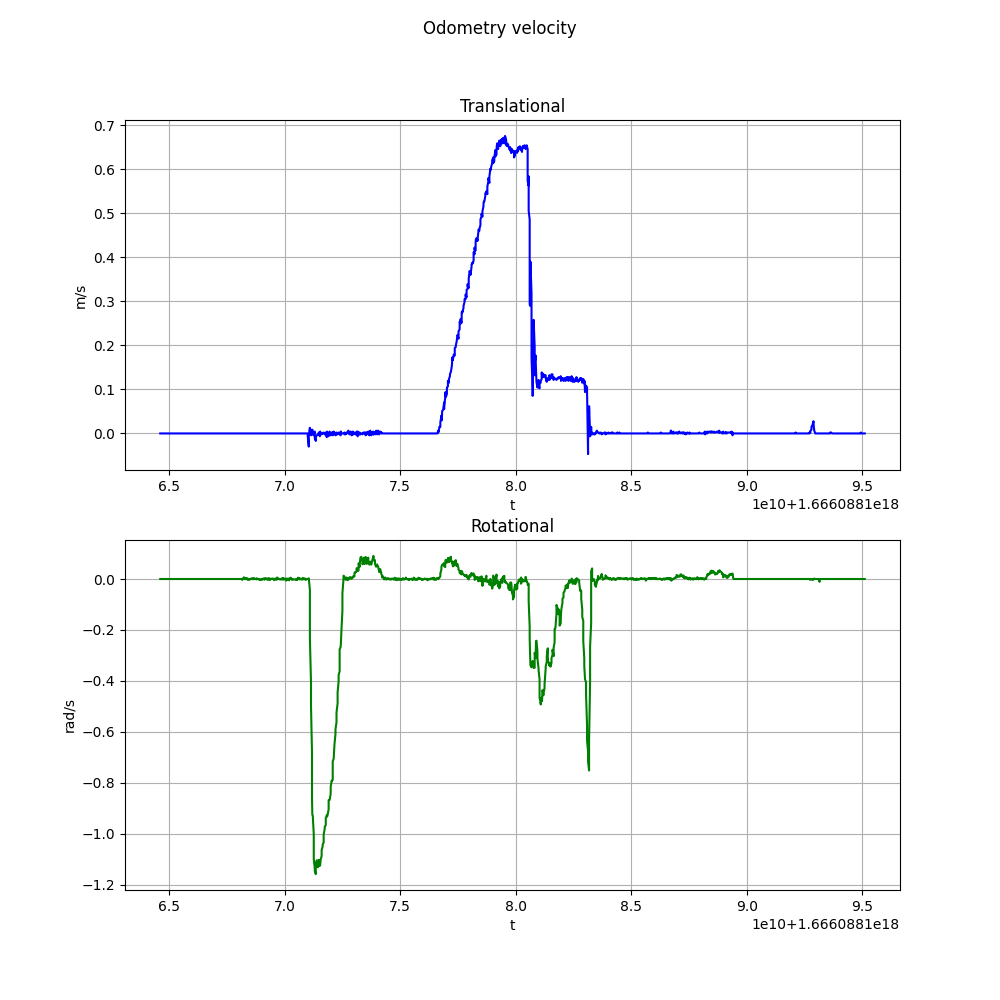
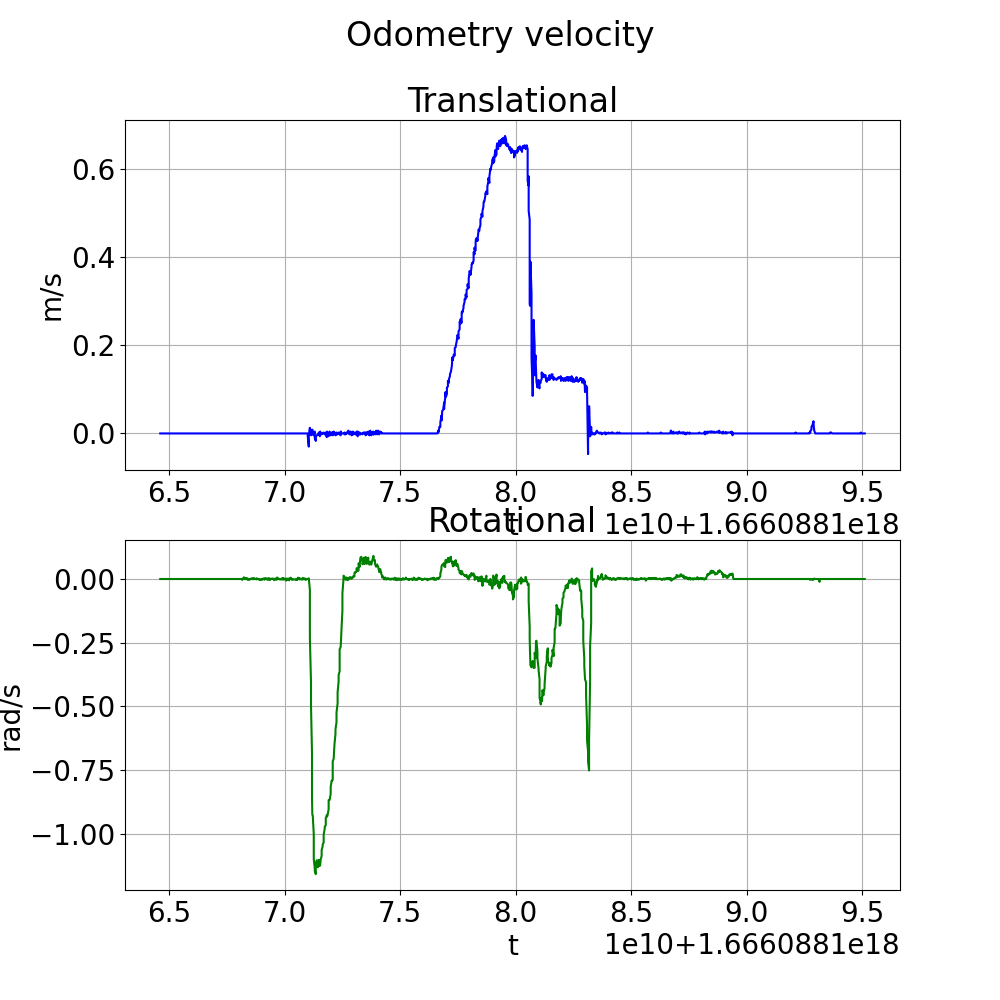
add : image

diff --git a/sobit_follower/scripts/plot.py b/sobit_follower/scripts/plot.py
@@ -15,188 +15,208 @@ parser.add_argument("--save_plot_path", default='', help="File path of Plot imag
 
 options = parser.parse_args()
 
-# # Distance between robot and person
-# print("\tDistance between robot and person")
-# usecols = [ '%time', 'field.x', 'field.y']
-# target_from_robot_base = pd.read_csv( options.following_position_csv_path, encoding='shift-jis', usecols=usecols, dtype={ '%time': float, 'field.x': float, 'field.y': float } )
-# time = target_from_robot_base['%time'].values
-# target_x = target_from_robot_base['field.x'].values
-# target_y = target_from_robot_base['field.y'].values
-# distance = np.sqrt((target_x) ** 2 + (target_y) ** 2)
-# idx = distance.size - int(distance.size * 0.03)
-# distance = distance[:idx]
-# time = time[:idx]
+# Distance between robot and person
+print("\tDistance between robot and person")
+usecols = [ '%time', 'field.x', 'field.y']
+target_from_robot_base = pd.read_csv( options.following_position_csv_path, encoding='shift-jis', usecols=usecols, dtype={ '%time': float, 'field.x': float, 'field.y': float } )
+time = target_from_robot_base['%time'].values
+target_x = target_from_robot_base['field.x'].values
+target_y = target_from_robot_base['field.y'].values
+distance = np.sqrt((target_x) ** 2 + (target_y) ** 2)
+idx = distance.size - int(distance.size * 0.03)
+distance = distance[:idx]
+time = time[:idx]
+time_d = time
 
-# print(f"\t\tDistance average = {np.mean(distance[ distance > 0.0 ])}")
-# print(f"\t\tDistance max     = {np.max(distance[ distance > 0.0 ])}")
-# print(f"\t\tDistance min     = {np.min(distance[ distance > 0.0 ])}")
+print(f"\t\tDistance average = {np.mean(distance[ distance > 0.0 ])}")
+print(f"\t\tDistance max     = {np.max(distance[ distance > 0.0 ])}")
+print(f"\t\tDistance min     = {np.min(distance[ distance > 0.0 ])}")
 
-# fig, ax = plt.subplots()
-# ax.set_xlabel('t')  # x軸ラベル
-# ax.set_ylabel('Distance[m]')  # y軸ラベル
-# ax.set_title('Distance between robot and person') # グラフタイトル
-# # ax.set_aspect('equal', adjustable='box') # スケールを揃える
-# ax.grid()            # 罫線
-# #ax.set_xlim([-10, 10]) # x方向の描画範囲を指定
-# #ax.set_ylim([0, 1])    # y方向の描画範囲を指定
-# ax.plot(time, distance, color="blue", label="Distance")
+fig, ax = plt.subplots()
+ax.set_xlabel('t')  # x軸ラベル
+ax.set_ylabel('Distance[m]')  # y軸ラベル
+ax.set_title('Distance between robot and person') # グラフタイトル
+# ax.set_aspect('equal', adjustable='box') # スケールを揃える
+ax.grid()            # 罫線
+#ax.set_xlim([-10, 10]) # x方向の描画範囲を指定
+#ax.set_ylim([0, 1])    # y方向の描画範囲を指定
+ax.plot(time, distance, color="blue", label="Distance")
 
-# ax.legend(loc=0)    # 凡例
-# fig.tight_layout()  # レイアウトの設定
-# plt.savefig( options.save_plot_path + "_distance.png" ) # 画像の保存
-# # plt.show()
-# plt.clf()
+ax.legend(loc=0)    # 凡例
+fig.tight_layout()  # レイアウトの設定
+plt.savefig( options.save_plot_path + "_distance.png" ) # 画像の保存
+# plt.show()
+plt.clf()
 
 # Tracking and Robot Trajectory
-# print("\tTracking and Robot Trajectory")
-# usecols = ['field.x', 'field.y']
-# target = pd.read_csv( options.target_postion_odom_csv_path, encoding='shift-jis', usecols=usecols, dtype={ 'field.x': float, 'field.y': float } )
-# robot = pd.read_csv( options.odom_csv_path, encoding='shift-jis', usecols=usecols, dtype={ 'field.x': float, 'field.y': float } )
-# target_x = target['field.x'].values
-# target_x = target_x+0.25
-# target_y = target['field.y'].values
-# target_y = -target_y
-# robot_x = robot['field.x'].values
-# robot_x = robot_x+0.25
-# robot_y = robot['field.y'].values
-# robot_y = -robot_y
+print("\tTracking and Robot Trajectory")
+usecols = ['field.x', 'field.y']
+target = pd.read_csv( options.target_postion_odom_csv_path, encoding='shift-jis', usecols=usecols, dtype={ 'field.x': float, 'field.y': float } )
+robot = pd.read_csv( options.odom_csv_path, encoding='shift-jis', usecols=usecols, dtype={ 'field.x': float, 'field.y': float } )
+target_x = target['field.x'].values
+target_x = target_x+0.25
+target_y = target['field.y'].values
+target_y = -target_y
+robot_x = robot['field.x'].values
+robot_x = robot_x+0.25
+robot_y = robot['field.y'].values
+robot_y = -robot_y
 
 
-# fig, ax = plt.subplots()
-# ax.set_xlabel("x[m]", size = 20)
-# ax.set_ylabel("y[m]", size = 20)
-# # ax.set_title('Tracking and Robot Trajectory') # グラフタイトル
-# ax.set_aspect('equal', adjustable='box') # スケールを揃える
-# ax.grid()            # 罫線
-# ax.plot(target_y, target_x, color="deepskyblue", linestyle='-', linewidth=5, label="Person")
-# ax.plot(robot_y, robot_x, color="coral", linestyle='--', linewidth=5, label="Robot")
-# # obstacle
-# r = patches.Rectangle( (2.1,1.4) , 1.2, 0.9, fill=True, fc="Black", linewidth=0)
-# ax.add_patch(r)
-# r = patches.Rectangle( (4.2,0.0) , 1.2, 0.9, fill=True, fc="Black", linewidth=0)
-# ax.add_patch(r)
-# c = patches.Circle( xy=(7.05,1.85), radius=0.05,fill=True, fc="Black")
-# ax.add_patch(c)
-# ax.set_xlim([-1.0, 9.0]) # x方向の描画範囲を指定
-# ax.set_ylim([0, 2.3])    # y方向の描画範囲を指定
+fig, ax = plt.subplots()
+ax.set_xlabel("x[m]", size = 20)
+ax.set_ylabel("y[m]", size = 20)
+# ax.set_title('Tracking and Robot Trajectory') # グラフタイトル
+ax.set_aspect('equal', adjustable='box') # スケールを揃える
+ax.grid()            # 罫線
+ax.plot(target_y, target_x, color="deepskyblue", linestyle='-', linewidth=5, label="Person")
+ax.plot(robot_y, robot_x, color="coral", linestyle='--', linewidth=5, label="Robot")
+# obstacle
+r = patches.Rectangle( (2.1,1.4) , 1.2, 0.9, fill=True, fc="Black", linewidth=0)
+ax.add_patch(r)
+r = patches.Rectangle( (4.2,0.0) , 1.2, 0.9, fill=True, fc="Black", linewidth=0)
+ax.add_patch(r)
+c = patches.Circle( xy=(7.05,1.85), radius=0.05,fill=True, fc="Black")
+ax.add_patch(c)
+ax.set_xlim([-1.0, 9.0]) # x方向の描画範囲を指定
+ax.set_ylim([0, 2.3])    # y方向の描画範囲を指定
 
-# ax.legend(loc=0)    # 凡例
-# # fig.tight_layout()  # レイアウトの設定
-# # 軸目盛の設定と目盛り線の表示
-# plt.rcParams['font.size'] = 20
-# ax.set_xticks([0.0, 0.9, 2.1, 3.3, 4.2, 5.4, 7.05, 8.4, -1.0, 9.0])
-# ax.set_yticks([0.0, 0.9, 1.85, 1.15, 1.4, 0.0, 2.3])
-# xticklabels = ax.get_xticklabels()
-# yticklabels = ax.get_yticklabels()
-# # 各要素の設定をおこなうsetコマンド
-# ax.set_xticklabels([0.0, 0.9, 2.1, 3.3, 4.2, 5.4, 7.05, 8.4, -1.0, 9.0],fontsize=20)
-# ax.set_yticklabels([0.0, 0.9, 1.85, 1.15, 1.4, 0.0, 2.3],fontsize=20)
-# # plt.savefig( options.save_plot_path + "_tracking_and_robot.png" ) # 画像の保存
+ax.legend(loc=0)    # 凡例
+# fig.tight_layout()  # レイアウトの設定
+# 軸目盛の設定と目盛り線の表示
+plt.rcParams['font.size'] = 20
+ax.set_xticks([0.0, 0.9, 2.1, 3.3, 4.2, 5.4, 7.05, 8.4, -1.0, 9.0])
+ax.set_yticks([0.0, 0.9, 1.85, 1.15, 1.4, 0.0, 2.3])
+xticklabels = ax.get_xticklabels()
+yticklabels = ax.get_yticklabels()
+# 各要素の設定をおこなうsetコマンド
+ax.set_xticklabels([0.0, 0.9, 2.1, 3.3, 4.2, 5.4, 7.05, 8.4, -1.0, 9.0],fontsize=20)
+ax.set_yticklabels([0.0, 0.9, 1.85, 1.15, 1.4, 0.0, 2.3],fontsize=20)
+# plt.savefig( options.save_plot_path + "_tracking_and_robot.png" ) # 画像の保存
 # plt.show()
-# plt.clf()
+plt.clf()
 
-# # smooth velocity
-# print("\tSmooth velocity")
-# usecols = [ '%time', 'field.linear.x', 'field.angular.z']
-# smooth_velocity = pd.read_csv( options.smooth_cmd_vel_csv_path, encoding='shift-jis', usecols=usecols, dtype={ '%time':float, 'field.linear.x':float, 'field.angular.z':float } )
-# time = smooth_velocity['%time'].values.tolist()
-# linear = smooth_velocity['field.linear.x'].values
-# angular = smooth_velocity['field.angular.z'].values
-# print(f"\t\tTranslational average = {np.mean(linear[linear > 0.0])}")
-# print(f"\t\tTranslational max     = {np.max(linear[linear > 0.0])}")
-# print(f"\t\tTranslational min     = {np.min(linear[linear > 0.0])}")
-# print(f"\t\tRotational average    = {np.mean(angular)}")
-# print(f"\t\tRotational max        = {np.max(angular)}")
-# print(f"\t\tRotational min        = {np.min(angular)}")
+# smooth velocity
+print("\tSmooth velocity")
+usecols = [ '%time', 'field.linear.x', 'field.angular.z']
+smooth_velocity = pd.read_csv( options.smooth_cmd_vel_csv_path, encoding='shift-jis', usecols=usecols, dtype={ '%time':float, 'field.linear.x':float, 'field.angular.z':float } )
+time = smooth_velocity['%time'].values.tolist()
+linear = smooth_velocity['field.linear.x'].values
+angular = smooth_velocity['field.angular.z'].values
+print(f"\t\tTranslational average = {np.mean(linear[linear > 0.0])}")
+print(f"\t\tTranslational max     = {np.max(linear[linear > 0.0])}")
+print(f"\t\tTranslational min     = {np.min(linear[linear > 0.0])}")
+print(f"\t\tRotational average    = {np.mean(angular)}")
+print(f"\t\tRotational max        = {np.max(angular)}")
+print(f"\t\tRotational min        = {np.min(angular)}")
 
-# fig = plt.figure(figsize = (10, 10))
-# fig.suptitle('Smooth velocity')
-# ax1 = fig.add_subplot(2, 1, 1)
-# ax1.set_title("Translational")
-# ax1.set_xlabel('t')
-# ax1.set_ylabel('m/s')
-# ax1.plot(time, linear, color="blue", label="Translational")
+fig = plt.figure(figsize = (10, 10))
+fig.suptitle('Smooth velocity')
+ax1 = fig.add_subplot(2, 1, 1)
+ax1.set_title("Translational")
+ax1.set_xlabel('t')
+ax1.set_ylabel('m/s')
+ax1.plot(time, linear, color="blue", label="Translational")
 
-# # ax1.set_aspect('equal', adjustable='box')
-# ax1.grid()
-# ax2 = fig.add_subplot(2, 1, 2)
-# ax2.set_title("Rotational")
-# ax2.set_xlabel('t')
-# ax2.set_ylabel('rad/s')
-# ax2.plot(time, angular, color="green", label='Rotational')
-# # ax2.set_aspect('equal', adjustable='box')
-# ax2.grid()
-# plt.savefig( options.save_plot_path + "_smooth_velocity.png" ) # 画像の保存
-# # plt.show()
-# plt.clf()
+# ax1.set_aspect('equal', adjustable='box')
+ax1.grid()
+ax2 = fig.add_subplot(2, 1, 2)
+ax2.set_title("Rotational")
+ax2.set_xlabel('t')
+ax2.set_ylabel('rad/s')
+ax2.plot(time, angular, color="green", label='Rotational')
+# ax2.set_aspect('equal', adjustable='box')
+ax2.grid()
+plt.savefig( options.save_plot_path + "_smooth_velocity.png" ) # 画像の保存
+# plt.show()
+plt.clf()
 
-# # velocity
-# print("\tVelocity")
-# velocity = pd.read_csv( options.raw_cmd_vel_csv_path, encoding='shift-jis', usecols=usecols, dtype={ '%time':float, 'field.linear.x':float, 'field.angular.z':float } )
-# time = velocity['%time'].values.tolist()
-# linear = velocity['field.linear.x'].values
-# angular = velocity['field.angular.z'].values
-# print(f"\t\tTranslational average = {np.mean(linear[linear > 0.0])}")
-# print(f"\t\tTranslational max     = {np.max(linear[linear > 0.0])}")
-# print(f"\t\tTranslational min     = {np.min(linear[linear > 0.0])}")
-# print(f"\t\tRotational average    = {np.mean(angular)}")
-# print(f"\t\tRotational max        = {np.max(angular)}")
-# print(f"\t\tRotational min        = {np.min(angular)}")
+# velocity
+print("\tVelocity")
+velocity = pd.read_csv( options.raw_cmd_vel_csv_path, encoding='shift-jis', usecols=usecols, dtype={ '%time':float, 'field.linear.x':float, 'field.angular.z':float } )
+time = velocity['%time'].values.tolist()
+linear = velocity['field.linear.x'].values
+angular = velocity['field.angular.z'].values
+print(f"\t\tTranslational average = {np.mean(linear[linear > 0.0])}")
+print(f"\t\tTranslational max     = {np.max(linear[linear > 0.0])}")
+print(f"\t\tTranslational min     = {np.min(linear[linear > 0.0])}")
+print(f"\t\tRotational average    = {np.mean(angular)}")
+print(f"\t\tRotational max        = {np.max(angular)}")
+print(f"\t\tRotational min        = {np.min(angular)}")
 
-# fig = plt.figure(figsize = (10, 10))
-# fig.suptitle('Velocity')
-# ax1 = fig.add_subplot(2, 1, 1)
-# ax1.set_title("Translational")
-# ax1.set_xlabel('t')
-# ax1.set_ylabel('m/s')
-# ax1.plot(time, linear, color="blue", label="Translational")
+fig = plt.figure(figsize = (10, 10))
+fig.suptitle('Velocity')
+ax1 = fig.add_subplot(2, 1, 1)
+ax1.set_title("Translational")
+ax1.set_xlabel('t')
+ax1.set_ylabel('m/s')
+ax1.plot(time, linear, color="blue", label="Translational")
 
-# # ax1.set_aspect('equal', adjustable='box')
-# ax1.grid()
-# ax2 = fig.add_subplot(2, 1, 2)
-# ax2.set_title("Rotational")
-# ax2.set_xlabel('t')
-# ax2.set_ylabel('rad/s')
-# ax2.plot(time, angular, color="green", label='Rotational')
-# # ax2.set_aspect('equal', adjustable='box')
-# ax2.grid()
-# plt.savefig( options.save_plot_path + "_velocity.png" ) # 画像の保存
-# # plt.show()
-# plt.clf()
+# ax1.set_aspect('equal', adjustable='box')
+ax1.grid()
+ax2 = fig.add_subplot(2, 1, 2)
+ax2.set_title("Rotational")
+ax2.set_xlabel('t')
+ax2.set_ylabel('rad/s')
+ax2.plot(time, angular, color="green", label='Rotational')
+# ax2.set_aspect('equal', adjustable='box')
+ax2.grid()
+plt.savefig( options.save_plot_path + "_velocity.png" ) # 画像の保存
+# plt.show()
+plt.clf()
 
-# # odom velocity
-# print("\tOdometry Velocity")
-# odom_velocity = pd.read_csv( options.odom_velocity_csv_path, encoding='shift-jis', usecols=usecols, dtype={ '%time':float, 'field.linear.x':float, 'field.angular.z':float } )
-# time = odom_velocity['%time'].values.tolist()
-# linear = odom_velocity['field.linear.x'].values
-# angular = odom_velocity['field.angular.z'].values
-# print(f"\t\tTranslational average = {np.mean(linear[linear > 0.0])}")
-# print(f"\t\tTranslational max     = {np.max(linear[linear > 0.0])}")
-# print(f"\t\tTranslational min     = {np.min(linear[linear > 0.0])}")
-# print(f"\t\tRotational average    = {np.mean(angular)}")
-# print(f"\t\tRotational max        = {np.max(angular)}")
-# print(f"\t\tRotational min        = {np.min(angular)}")
+# odom velocity
+print("\tOdometry Velocity")
+odom_velocity = pd.read_csv( options.odom_velocity_csv_path, encoding='shift-jis', usecols=usecols, dtype={ '%time':float, 'field.linear.x':float, 'field.angular.z':float } )
+time = odom_velocity['%time'].values.tolist()
+linear = odom_velocity['field.linear.x'].values
+angular = odom_velocity['field.angular.z'].values
+time_v = time
+print(f"\t\tTranslational average = {np.mean(linear[linear > 0.0])}")
+print(f"\t\tTranslational max     = {np.max(linear[linear > 0.0])}")
+print(f"\t\tTranslational min     = {np.min(linear[linear > 0.0])}")
+print(f"\t\tRotational average    = {np.mean(angular)}")
+print(f"\t\tRotational max        = {np.max(angular)}")
+print(f"\t\tRotational min        = {np.min(angular)}")
 
-# fig = plt.figure(figsize = (10, 10))
-# fig.suptitle('Odometry velocity')
-# ax1 = fig.add_subplot(2, 1, 1)
-# ax1.set_title("Translational")
-# ax1.set_xlabel('t')
-# ax1.set_ylabel('m/s')
-# ax1.plot(time, linear, color="blue", label="Translational")
+fig = plt.figure(figsize = (10, 10))
+fig.suptitle('Odometry velocity')
+ax1 = fig.add_subplot(2, 1, 1)
+ax1.set_title("Translational")
+ax1.set_xlabel('t')
+ax1.set_ylabel('m/s')
+ax1.plot(time, linear, color="blue", label="Translational")
 
-# # ax1.set_aspect('equal', adjustable='box')
-# ax1.grid()
-# ax2 = fig.add_subplot(2, 1, 2)
-# ax2.set_title("Rotational")
-# ax2.set_xlabel('t')
-# ax2.set_ylabel('rad/s')
-# ax2.plot(time, angular, color="green", label='Rotational')
-# # ax2.set_aspect('equal', adjustable='box')
-# ax2.grid()
-# plt.savefig( options.save_plot_path + "_odom_velocity.png" ) # 画像の保存
-# # plt.show()
-# plt.clf()
+# ax1.set_aspect('equal', adjustable='box')
+ax1.grid()
+ax2 = fig.add_subplot(2, 1, 2)
+ax2.set_title("Rotational")
+ax2.set_xlabel('t')
+ax2.set_ylabel('rad/s')
+ax2.plot(time, angular, color="green", label='Rotational')
+# ax2.set_aspect('equal', adjustable='box')
+ax2.grid()
+plt.savefig( options.save_plot_path + "_odom_velocity.png" ) # 画像の保存
+# plt.show()
+plt.clf()
+
+fig, ax = plt.subplots()
+print("\tDistance amd Velocity")
+ax.set_xlabel('t')  # x軸ラベル
+ax.set_ylabel('Distance[m] & Velocity[m/s]')  # y軸ラベル
+ax.set_title('Distance amd Velocity') # グラフタイトル
+# ax.set_aspect('equal', adjustable='box') # スケールを揃える
+ax.grid()            # 罫線
+#ax.set_xlim([-10, 10]) # x方向の描画範囲を指定
+#ax.set_ylim([0, 1])    # y方向の描画範囲を指定
+ax.plot(time_d, distance, color="blue", label="Distance")
+ax.plot(time_v, linear, color="red", label="Translational")
+
+ax.legend(loc=0)    # 凡例
+fig.tight_layout()  # レイアウトの設定
+plt.savefig( options.save_plot_path + "_distance_velocty.png" ) # 画像の保存
+plt.show()
+plt.clf()
 
 fig = plt.figure(figsize = (10, 7))
 ax1 = fig.add_subplot(2, 1, 1) 
@@ -294,5 +314,5 @@ ax2.add_patch(c)
 ax2.set_aspect('equal', adjustable='box') # スケールを揃える
 
 
-plt.show()
+# plt.show()
 
